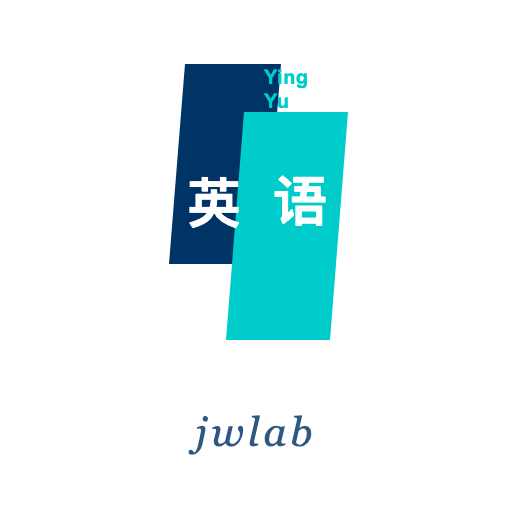
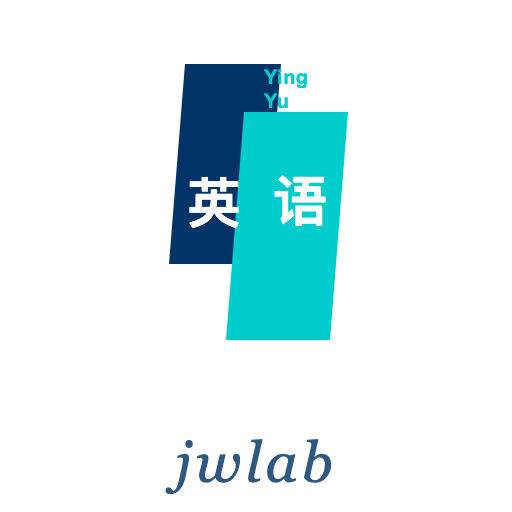
feat(en): jwlab 放大（40→56px，Jian「文字 jwlab 尽量大」，三站统一口径）
favicon.svg 底部 jwlab：font-size 40→56、基线 446→482；
全套 9 个位图重栅格化；各页图标引用 ?v=3→4 破缓存（37 处）。
dist/ 本地重建（gitignore）。

Changed region(s): [[0.3125, 0.8125, 0.6562, 0.9688]]

diff --git a/review.html b/review.html
@@ -9,11 +9,11 @@
 <link rel="preconnect" href="https://fonts.gstatic.com" crossorigin>
 <link href="https://fonts.googleapis.com/css2?family=Fraunces:ital,opsz,wght@0,9..144,300..700;1,9..144,300..700&family=IBM+Plex+Sans:wght@400;500;600;700&family=IBM+Plex+Mono:ital,wght@0,400;0,500;1,400&display=swap" rel="stylesheet">
 <link rel="stylesheet" href="assets/css/english.css?v=14">
-<link rel="icon" type="image/svg+xml" href="assets/img/favicon.svg?v=3">
-<link rel="icon" type="image/png" sizes="32x32" href="assets/img/favicon-32.png?v=3">
-<link rel="icon" type="image/png" sizes="16x16" href="assets/img/favicon-16.png?v=3">
-<link rel="apple-touch-icon" sizes="180x180" href="assets/img/apple-touch-icon.png?v=3">
-<link rel="manifest" href="manifest.webmanifest?v=3">
+<link rel="icon" type="image/svg+xml" href="assets/img/favicon.svg?v=4">
+<link rel="icon" type="image/png" sizes="32x32" href="assets/img/favicon-32.png?v=4">
+<link rel="icon" type="image/png" sizes="16x16" href="assets/img/favicon-16.png?v=4">
+<link rel="apple-touch-icon" sizes="180x180" href="assets/img/apple-touch-icon.png?v=4">
+<link rel="manifest" href="manifest.webmanifest?v=4">
 <meta property="og:type" content="website">
 <meta property="og:title" content="复习 · Review · 15000 英语单词 · Englishheft">
 <meta property="og:description" content="Leitner 五盒间隔复习队列（1/2/4/7/15 天）：今日到期的「已学」场景在此自评，记住升盒、又忘回盒 1。">
@@ -74,7 +74,7 @@
 </main>
 
 <script src="assets/js/data/english.js?v=2"></script>
-<script src="assets/js/data/en-de.js?v=3"></script>
+<script src="assets/js/data/en-de.js?v=4"></script>
 <script src="assets/js/site.js?v=9"></script>
 <script src="assets/js/annotate-en.js?v=2"></script>
 <script src="assets/js/offline.js?v=4"></script>

diff --git a/sentences.html b/sentences.html
@@ -9,11 +9,11 @@
 <link rel="preconnect" href="https://fonts.gstatic.com" crossorigin>
 <link href="https://fonts.googleapis.com/css2?family=Fraunces:ital,opsz,wght@0,9..144,300..700;1,9..144,300..700&family=IBM+Plex+Sans:wght@400;500;600;700&family=IBM+Plex+Mono:ital,wght@0,400;0,500;1,400&display=swap" rel="stylesheet">
 <link rel="stylesheet" href="assets/css/english.css?v=14">
-<link rel="icon" type="image/svg+xml" href="assets/img/favicon.svg?v=3">
-<link rel="icon" type="image/png" sizes="32x32" href="assets/img/favicon-32.png?v=3">
-<link rel="icon" type="image/png" sizes="16x16" href="assets/img/favicon-16.png?v=3">
-<link rel="apple-touch-icon" sizes="180x180" href="assets/img/apple-touch-icon.png?v=3">
-<link rel="manifest" href="manifest.webmanifest?v=3">
+<link rel="icon" type="image/svg+xml" href="assets/img/favicon.svg?v=4">
+<link rel="icon" type="image/png" sizes="32x32" href="assets/img/favicon-32.png?v=4">
+<link rel="icon" type="image/png" sizes="16x16" href="assets/img/favicon-16.png?v=4">
+<link rel="apple-touch-icon" sizes="180x180" href="assets/img/apple-touch-icon.png?v=4">
+<link rel="manifest" href="manifest.webmanifest?v=4">
 <meta property="og:type" content="website">
 <meta property="og:title" content="场景句 · Sentences · 15000 英语单词 · Englishheft">
 <meta property="og:description" content="4900+ 场景句（英文 / 中文）+ 1200+ 条句子解析：短语用法、单词说明、句型搭配。">
@@ -74,7 +74,7 @@
 </main>
 
 <script src="assets/js/data/english.js?v=2"></script>
-<script src="assets/js/data/en-de.js?v=3"></script>
+<script src="assets/js/data/en-de.js?v=4"></script>
 <script src="assets/js/site.js?v=9"></script>
 <script src="assets/js/annotate-en.js?v=2"></script>
 <script src="assets/js/offline.js?v=4"></script>

diff --git a/phonetics.html b/phonetics.html
@@ -9,11 +9,11 @@
 <link rel="preconnect" href="https://fonts.gstatic.com" crossorigin>
 <link href="https://fonts.googleapis.com/css2?family=Fraunces:ital,opsz,wght@0,9..144,300..700;1,9..144,300..700&family=IBM+Plex+Sans:wght@400;500;600;700&family=IBM+Plex+Mono:ital,wght@0,400;0,500;1,400&display=swap" rel="stylesheet">
 <link rel="stylesheet" href="assets/css/english.css?v=14">
-<link rel="icon" type="image/svg+xml" href="assets/img/favicon.svg?v=3">
-<link rel="icon" type="image/png" sizes="32x32" href="assets/img/favicon-32.png?v=3">
-<link rel="icon" type="image/png" sizes="16x16" href="assets/img/favicon-16.png?v=3">
-<link rel="apple-touch-icon" sizes="180x180" href="assets/img/apple-touch-icon.png?v=3">
-<link rel="manifest" href="manifest.webmanifest?v=3">
+<link rel="icon" type="image/svg+xml" href="assets/img/favicon.svg?v=4">
+<link rel="icon" type="image/png" sizes="32x32" href="assets/img/favicon-32.png?v=4">
+<link rel="icon" type="image/png" sizes="16x16" href="assets/img/favicon-16.png?v=4">
+<link rel="apple-touch-icon" sizes="180x180" href="assets/img/apple-touch-icon.png?v=4">
+<link rel="manifest" href="manifest.webmanifest?v=4">
 <meta property="og:type" content="website">
 <meta property="og:title" content="语音·音标 · Phonetics · 15000 英语单词 · Englishheft">
 <meta property="og:description" content="从全书 7000 条音标反推的英语音素表：25 元音 + 26 辅音，每个音素配书中例词。">

diff --git a/pdf.html b/pdf.html
@@ -9,11 +9,11 @@
 <link rel="preconnect" href="https://fonts.gstatic.com" crossorigin>
 <link href="https://fonts.googleapis.com/css2?family=Fraunces:ital,opsz,wght@0,9..144,300..700;1,9..144,300..700&family=IBM+Plex+Sans:wght@400;500;600;700&family=IBM+Plex+Mono:ital,wght@0,400;0,500;1,400&display=swap" rel="stylesheet">
 <link rel="stylesheet" href="assets/css/english.css?v=14">
-<link rel="icon" type="image/svg+xml" href="assets/img/favicon.svg?v=3">
-<link rel="icon" type="image/png" sizes="32x32" href="assets/img/favicon-32.png?v=3">
-<link rel="icon" type="image/png" sizes="16x16" href="assets/img/favicon-16.png?v=3">
-<link rel="apple-touch-icon" sizes="180x180" href="assets/img/apple-touch-icon.png?v=3">
-<link rel="manifest" href="manifest.webmanifest?v=3">
+<link rel="icon" type="image/svg+xml" href="assets/img/favicon.svg?v=4">
+<link rel="icon" type="image/png" sizes="32x32" href="assets/img/favicon-32.png?v=4">
+<link rel="icon" type="image/png" sizes="16x16" href="assets/img/favicon-16.png?v=4">
+<link rel="apple-touch-icon" sizes="180x180" href="assets/img/apple-touch-icon.png?v=4">
+<link rel="manifest" href="manifest.webmanifest?v=4">
 <meta property="og:type" content="website">
 <meta property="og:title" content="原文 PDF · Original · 15000 英语单词 · Englishheft">
 <meta property="og:description" content="在线翻阅《15000英语单词口袋书》原版 PDF（1370 页），或下载离线阅读。">

diff --git a/vocab.html b/vocab.html
@@ -9,11 +9,11 @@
 <link rel="preconnect" href="https://fonts.gstatic.com" crossorigin>
 <link href="https://fonts.googleapis.com/css2?family=Fraunces:ital,opsz,wght@0,9..144,300..700;1,9..144,300..700&family=IBM+Plex+Sans:wght@400;500;600;700&family=IBM+Plex+Mono:ital,wght@0,400;0,500;1,400&display=swap" rel="stylesheet">
 <link rel="stylesheet" href="assets/css/english.css?v=14">
-<link rel="icon" type="image/svg+xml" href="assets/img/favicon.svg?v=3">
-<link rel="icon" type="image/png" sizes="32x32" href="assets/img/favicon-32.png?v=3">
-<link rel="icon" type="image/png" sizes="16x16" href="assets/img/favicon-16.png?v=3">
-<link rel="apple-touch-icon" sizes="180x180" href="assets/img/apple-touch-icon.png?v=3">
-<link rel="manifest" href="manifest.webmanifest?v=3">
+<link rel="icon" type="image/svg+xml" href="assets/img/favicon.svg?v=4">
+<link rel="icon" type="image/png" sizes="32x32" href="assets/img/favicon-32.png?v=4">
+<link rel="icon" type="image/png" sizes="16x16" href="assets/img/favicon-16.png?v=4">
+<link rel="apple-touch-icon" sizes="180x180" href="assets/img/apple-touch-icon.png?v=4">
+<link rel="manifest" href="manifest.webmanifest?v=4">
 <meta property="og:type" content="website">
 <meta property="og:title" content="词汇 · Vocabulary · 15000 英语单词 · Englishheft">
 <meta property="og:description" content="17 大类 / 493 场景 / 7000+ 词条，英文 / 音标 / 中文三行对照，可逐条朗读。">

diff --git a/sections.html b/sections.html
@@ -9,11 +9,11 @@
 <link rel="preconnect" href="https://fonts.gstatic.com" crossorigin>
 <link href="https://fonts.googleapis.com/css2?family=Fraunces:ital,opsz,wght@0,9..144,300..700;1,9..144,300..700&family=IBM+Plex+Sans:wght@400;500;600;700&family=IBM+Plex+Mono:ital,wght@0,400;0,500;1,400&display=swap" rel="stylesheet">
 <link rel="stylesheet" href="assets/css/english.css?v=14">
-<link rel="icon" type="image/svg+xml" href="assets/img/favicon.svg?v=3">
-<link rel="icon" type="image/png" sizes="32x32" href="assets/img/favicon-32.png?v=3">
-<link rel="icon" type="image/png" sizes="16x16" href="assets/img/favicon-16.png?v=3">
-<link rel="apple-touch-icon" sizes="180x180" href="assets/img/apple-touch-icon.png?v=3">
-<link rel="manifest" href="manifest.webmanifest?v=3">
+<link rel="icon" type="image/svg+xml" href="assets/img/favicon.svg?v=4">
+<link rel="icon" type="image/png" sizes="32x32" href="assets/img/favicon-32.png?v=4">
+<link rel="icon" type="image/png" sizes="16x16" href="assets/img/favicon-16.png?v=4">
+<link rel="apple-touch-icon" sizes="180x180" href="assets/img/apple-touch-icon.png?v=4">
+<link rel="manifest" href="manifest.webmanifest?v=4">
 <meta property="og:type" content="website">
 <meta property="og:title" content="大类导览 · Sections · 15000 英语单词 · Englishheft">
 <meta property="og:description" content="17 个 Section 的构成与学习建议，按 Part / 场景逐层展开。">

diff --git a/index.html b/index.html
@@ -9,11 +9,11 @@
 <link rel="preconnect" href="https://fonts.gstatic.com" crossorigin>
 <link href="https://fonts.googleapis.com/css2?family=Fraunces:ital,opsz,wght@0,9..144,300..700;1,9..144,300..700&family=IBM+Plex+Sans:wght@400;500;600;700&family=IBM+Plex+Mono:ital,wght@0,400;0,500;1,400&display=swap" rel="stylesheet">
 <link rel="stylesheet" href="assets/css/english.css?v=14">
-<link rel="icon" type="image/svg+xml" href="assets/img/favicon.svg?v=3">
-<link rel="icon" type="image/png" sizes="32x32" href="assets/img/favicon-32.png?v=3">
-<link rel="icon" type="image/png" sizes="16x16" href="assets/img/favicon-16.png?v=3">
-<link rel="apple-touch-icon" sizes="180x180" href="assets/img/apple-touch-icon.png?v=3">
-<link rel="manifest" href="manifest.webmanifest?v=3">
+<link rel="icon" type="image/svg+xml" href="assets/img/favicon.svg?v=4">
+<link rel="icon" type="image/png" sizes="32x32" href="assets/img/favicon-32.png?v=4">
+<link rel="icon" type="image/png" sizes="16x16" href="assets/img/favicon-16.png?v=4">
+<link rel="apple-touch-icon" sizes="180x180" href="assets/img/apple-touch-icon.png?v=4">
+<link rel="manifest" href="manifest.webmanifest?v=4">
 <meta property="og:type" content="website">
 <meta property="og:title" content="首页 · Start · 15000 英语单词 · Englishheft">
 <meta property="og:description" content="词汇 / 场景句 / 语音音标 / 大类导览 —— 一站复习。">
